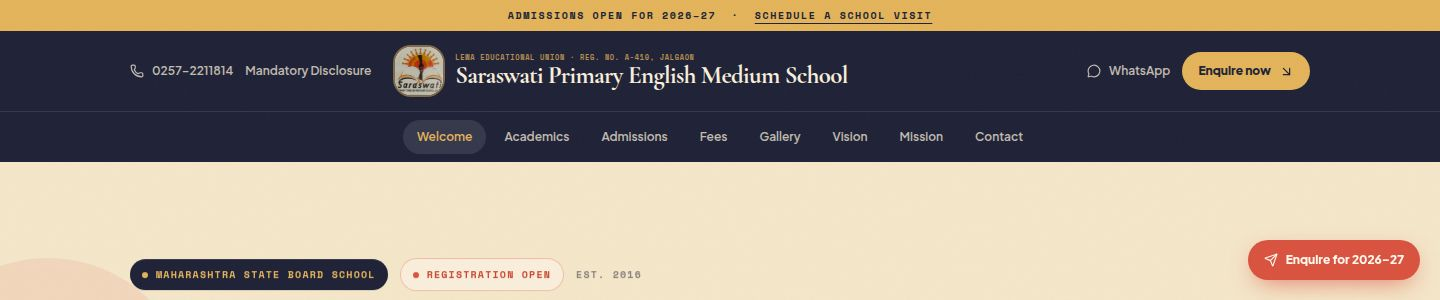
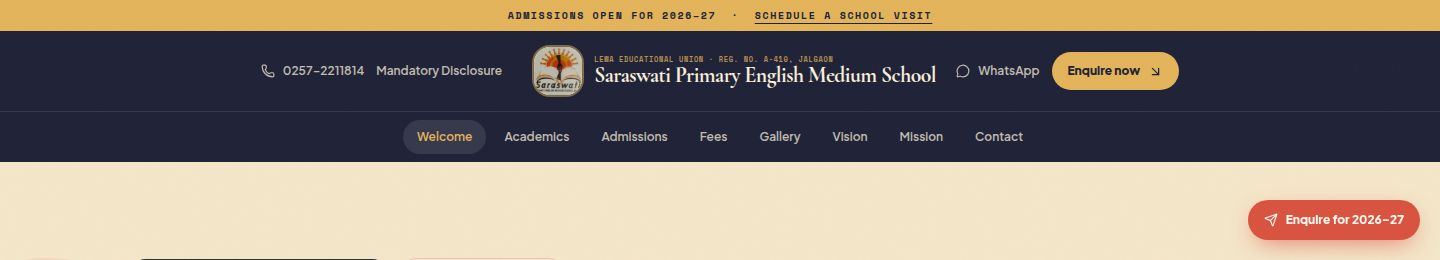
Update Saraswati school header layout assets and metadata
Replit-Commit-Author: Agent

diff --git a/artifacts/saraswati-school/src/App.tsx b/artifacts/saraswati-school/src/App.tsx
@@ -75,7 +75,7 @@ function LogoMark({ compact = false }: { compact?: boolean }) {
         <span className={`block font-mono-school text-[7px] font-bold uppercase tracking-[.1em] text-[#e3b45b]/75 ${compact ? 'lg:whitespace-nowrap' : ''}`}>{schoolContent.identity.management} · {schoolContent.identity.registration}</span>
         {compact ? (
           <>
-            <span className="hidden font-display text-[1.55rem] font-bold leading-none tracking-tight text-[#f8eedc] lg:block lg:whitespace-nowrap">{schoolContent.identity.name}</span>
+        <span className="hidden font-display text-[1.35rem] font-bold leading-none tracking-tight text-[#f8eedc] lg:block lg:whitespace-nowrap">{schoolContent.identity.name}</span>
             <span className="block font-display text-[1.8rem] font-bold leading-none tracking-tight text-[#f8eedc] lg:hidden">{schoolContent.identity.shortName}</span>
             <span className="block font-mono-school text-[8px] font-bold uppercase tracking-[.14em] text-[#e3b45b] lg:hidden">Primary English Medium School</span>
           </>
@@ -100,13 +100,13 @@ function SiteShell({ children }: { children: ReactNode }) {
         <Link href="/admissions" className="underline decoration-1 underline-offset-4" data-testid="link-top-admissions">Schedule a school visit</Link>
       </div>
       <header className="relative z-40 bg-[#202337] text-[#f8eedc]">
-        <div className="page-wrap flex min-h-[76px] items-center justify-between gap-4 py-3 lg:flex-wrap lg:gap-x-6 lg:gap-y-2 lg:py-4">
+        <div className="page-wrap flex min-h-[76px] items-center justify-between gap-4 py-3 lg:flex-wrap lg:justify-center lg:gap-x-8 lg:gap-y-2 lg:py-4">
           <div className="hidden items-center gap-3 lg:flex">
             <a href={schoolContent.contact.phoneHref} className="flex items-center gap-2 text-[12px] font-semibold text-[#f8eedc]/75 hover:text-[#e3b45b]" data-testid="link-call-header"><Phone size={14} /> {schoolContent.contact.phone}</a>
             <Link href="/mandatory-disclosure" className="text-[12px] font-semibold text-[#f8eedc]/75 hover:text-[#e3b45b]" data-testid="link-disclosure-header">Mandatory Disclosure</Link>
           </div>
           <LogoMark compact />
-          <div className="ml-auto hidden items-center gap-3 lg:flex">
+          <div className="hidden items-center gap-3 lg:flex">
             <a href={whatsappHref} target="_blank" rel="noopener noreferrer" className="flex items-center gap-2 text-[12px] font-semibold text-[#f8eedc]/75 hover:text-[#e3b45b]" data-testid="link-whatsapp-header"><MessageCircle size={14} /> WhatsApp</a>
             <Link href="/admissions" className="flex items-center gap-2 rounded-full bg-[#e3b45b] px-4 py-2.5 text-[12px] font-extrabold text-[#202337] transition-transform hover:-translate-y-0.5" data-testid="link-enquire-header">Enquire now <ArrowDownRight size={15} /></Link>
           </div>
